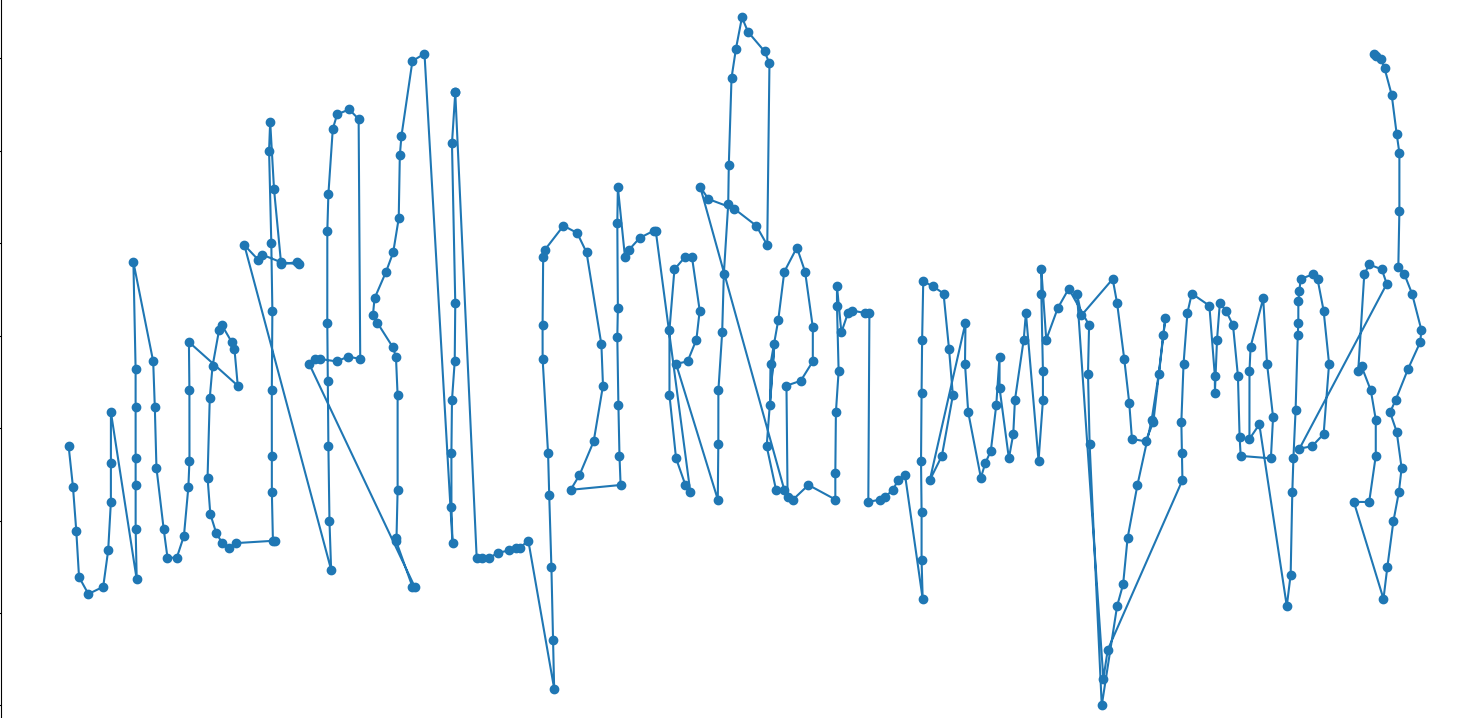
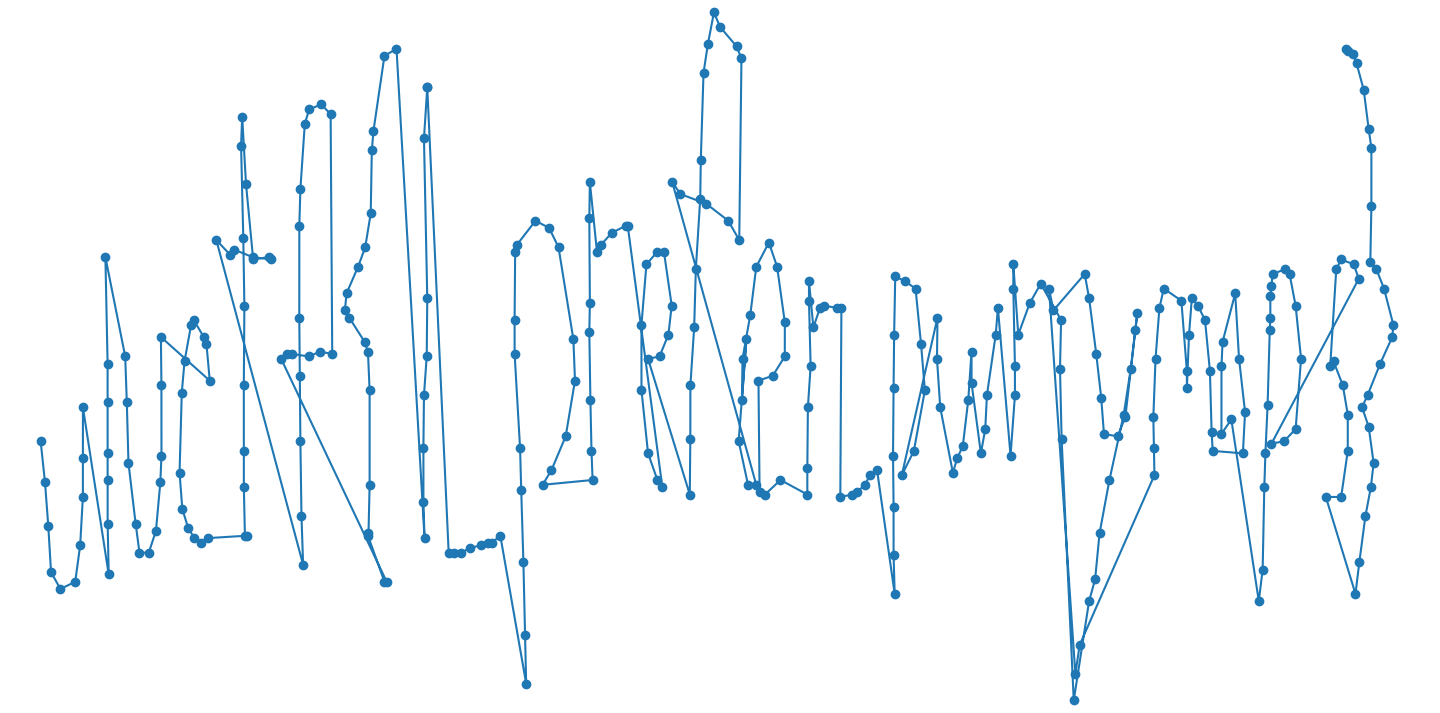
Fixed mistakes

Changed region(s): [[0.0, 0.0, 0.9688, 0.9874], [0.9375, 0.0617, 0.9688, 0.3086]]

diff --git a/UIUCTF2024/README.md b/UIUCTF2024/README.md
@@ -12,10 +12,11 @@ From the verification arrays the maximum seems to be 335 points.
 
 ![](img/encode.png)
 
-The code takes the x and y coordinates in for each iteration and encodes them into 8 bytes.
-These 8 bytes are xored in 16-bit pairs together and checked if the hash of their hamming weight matches an stored value for the index.
+The code takes the x and y coordinates as input for each iteration and encodes them into 8 bytes.
+These 8 bytes are xored together in 16-bit pairs and checked if the hash of their hamming weight matches a stored value at the iteration index.
+
 If all points pass this check then they are encoded further and checked against a `correct` array.
-After all points pass this check as well we get `You have reached your destination. PWNYMAPS does not support route plotting yet.` back from the binary.
+After all points pass this check as well, we get `You have reached your destination. PWNYMAPS does not support route plotting yet.` back from the binary.
 
 
 ```python
@@ -78,7 +79,7 @@ nums[1] = nums[5]
 nums[5] = tmp
 ```
 
-Then we 8x8 bit values out:
+Then we extract 8x8 bit values out:
 
 ![](img/encodeNum1.svg)
 
@@ -122,15 +123,12 @@ for entry in correct:
     print(x, y)
 ```
 
-This also gives us valid input for the binary and coordinates to plot for the flag.
-
-
 
 Plotting these points gives us this pretty hard to read mess:
 
 ![](img/lines.png)
 
-A bit of manual cleaning up:
+After cleaning up some unlikely and long lines manually:
 
 ![](img/cleaned.png)
 
